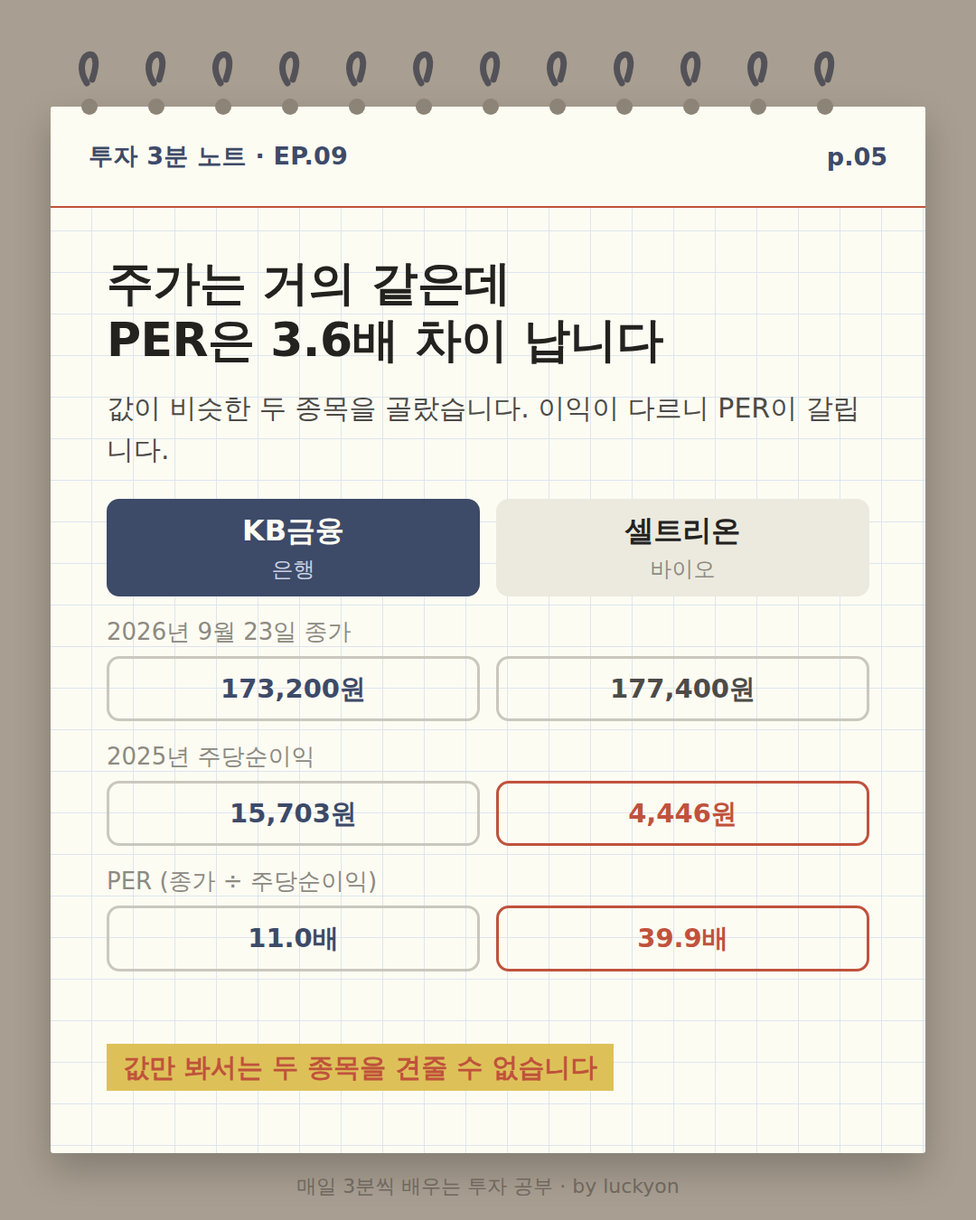
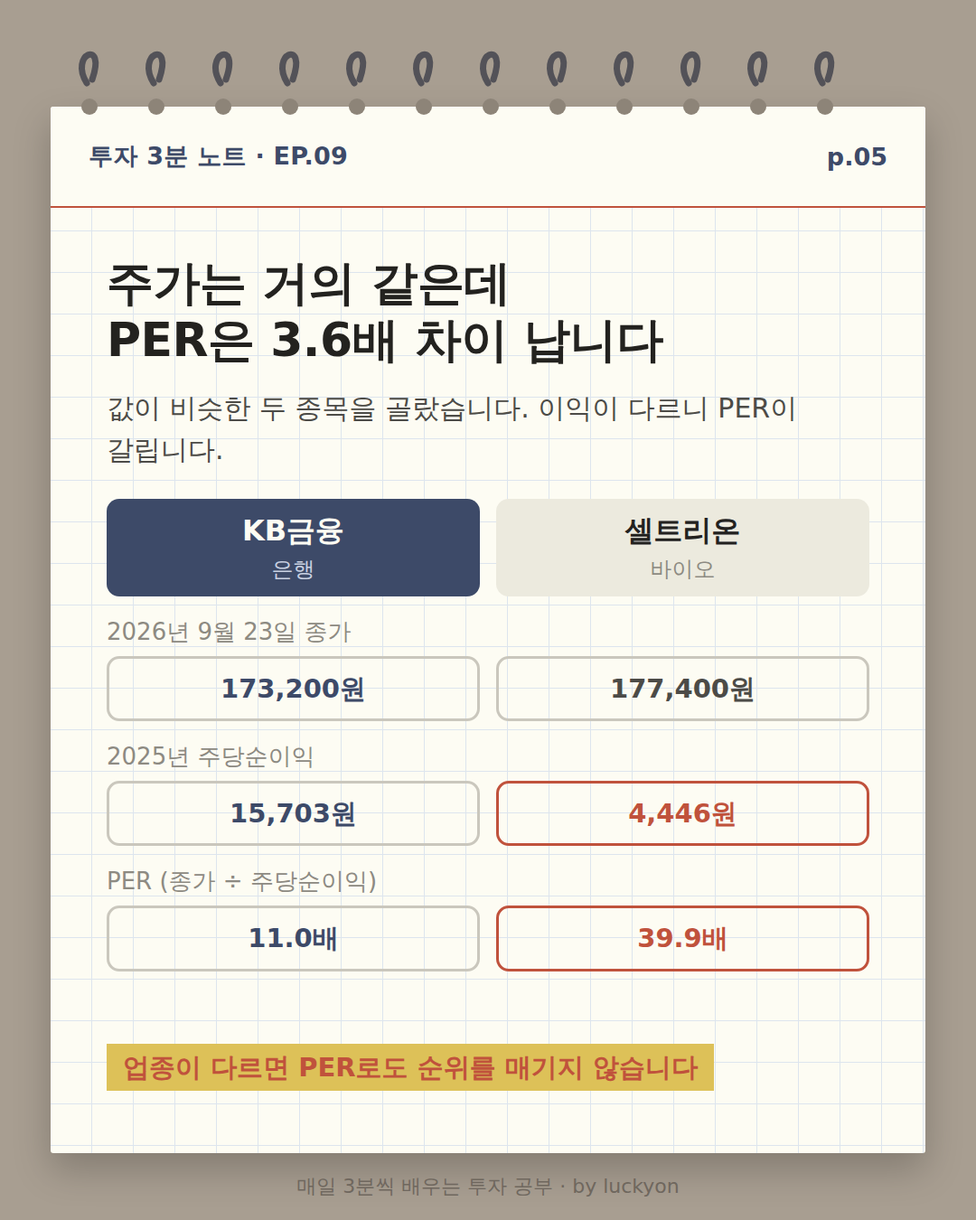
chart-notes: 2026-09-27-ep09 PER (주가수익비율) (ko+en) — p.04 그림 교체·권리금 비유
사용자 검토(2026-10-04): p.04 의 PER 곡선 두 개가 «가격이 올라서 / 이익이 줄어서»를
보여 주지 못해 그림과 설명이 맞지 않았다. 출발 분수 → 두 갈래 → 한 칸만 바뀐 분수 둘
(같은 20배)로 교체. 사용자 제안대로 권리금 비유를 p.02·p.04·p.07·캡션에 넣고(en 은
가게 매매가 = 연 이익의 몇 배), 검증 에이전트 지적(p.05 업종 간 순위, 가치함정 비유의
«이익 대비», 단위 통일, 한국어 어절 줄바꿈)을 반영해 다시 렌더.

Claude-Session: https://claude.ai/code/session_01AaxmUj8NxHtMF1QF9qYNXk

Changed region(s): [[0.1222, 0.84, 0.7333, 0.9022], [0.0917, 0.3422, 0.2139, 0.4044], [0.825, 0.3111, 0.8861, 0.3422]]

diff --git a/cards/chart-notes/2026-09-27-ep09/preview.html b/cards/chart-notes/2026-09-27-ep09/preview.html
@@ -66,35 +66,35 @@
       <figcaption><b>p.01</b> 크림색 모눈 노트 카드. 위 칸에 똑같은 높이의 붉은 캔들 두 개가 나란히 서 있고, 아래 칸에는 감청색 네모 기둥 두 개가 붙어 있는데 왼쪽은 길고 오른쪽은 짧다. 붉은 주석 «같은 값을 내도 딸려 오는 이익이 다릅니다»가 짧은 기둥을 가리킨다. 큰 제목은 «주가가 같아도 한쪽은 비싼 주식입니다», 부제는 «PER — 값을 이익으로 나눠 봅니다».</figcaption>
     </figure>
     <figure>
-      <img src="ko/card2.png" alt="제목 «PER이 몇 배라는 말, 무슨 뜻일까요». 그림에는 높이가 똑같은 직사각형 기둥 두 개가 서 있고, 왼쪽 기둥은 가로선으로 네 조각, 오른쪽 기둥은 열두 조각으로 나뉘어 있다. 오른쪽에 붉은 물음표 세 개. 캡션은 «두 기둥은 높이가 같습니다. 조각 수만 다릅니다»." loading="lazy">
-      <figcaption><b>p.02</b> 제목 «PER이 몇 배라는 말, 무슨 뜻일까요». 그림에는 높이가 똑같은 직사각형 기둥 두 개가 서 있고, 왼쪽 기둥은 가로선으로 네 조각, 오른쪽 기둥은 열두 조각으로 나뉘어 있다. 오른쪽에 붉은 물음표 세 개. 캡션은 «두 기둥은 높이가 같습니다. 조각 수만 다릅니다».</figcaption>
+      <img src="ko/card2.png" alt="제목 «PER이 몇 배라는 말, 무슨 뜻일까요». 본문은 가게 권리금을 월 순익 몇 달 치로 따지듯 PER은 주가를 1년 이익의 몇 배로 따진다고 설명한다. 그림에는 높이가 똑같은 직사각형 기둥 두 개가 서 있고, 왼쪽 기둥은 가로선으로 네 조각, 오른쪽 기둥은 열두 조각으로 나뉘어 있다. 오른쪽에 붉은 물음표 세 개. 캡션은 «기둥은 주가, 조각 하나는 1년 이익 — 조각 수가 PER입니다»." loading="lazy">
+      <figcaption><b>p.02</b> 제목 «PER이 몇 배라는 말, 무슨 뜻일까요». 본문은 가게 권리금을 월 순익 몇 달 치로 따지듯 PER은 주가를 1년 이익의 몇 배로 따진다고 설명한다. 그림에는 높이가 똑같은 직사각형 기둥 두 개가 서 있고, 왼쪽 기둥은 가로선으로 네 조각, 오른쪽 기둥은 열두 조각으로 나뉘어 있다. 오른쪽에 붉은 물음표 세 개. 캡션은 «기둥은 주가, 조각 하나는 1년 이익 — 조각 수가 PER입니다».</figcaption>
     </figure>
     <figure>
       <img src="ko/card3.png" alt="제목 «PER은 나눗셈 하나입니다». 가운데에 분수 꼴로 «주가»를 «주당순이익(1년)»으로 나눈 식과 «= PER». 아래에 주가, 주당순이익, 단위는 배 세 항목의 설명이 붙어 있다. 맨 아래 붉은 테두리 상자에 셀트리온 2026년 9월 23일 종가 기준 계산: 주가 177,400원, 2025년 주당순이익 4,446원, 177,400 ÷ 4,446 = 39.9배." loading="lazy">
       <figcaption><b>p.03</b> 제목 «PER은 나눗셈 하나입니다». 가운데에 분수 꼴로 «주가»를 «주당순이익(1년)»으로 나눈 식과 «= PER». 아래에 주가, 주당순이익, 단위는 배 세 항목의 설명이 붙어 있다. 맨 아래 붉은 테두리 상자에 셀트리온 2026년 9월 23일 종가 기준 계산: 주가 177,400원, 2025년 주당순이익 4,446원, 177,400 ÷ 4,446 = 39.9배.</figcaption>
     </figure>
     <figure>
-      <img src="ko/card4.png" alt="제목 «PER이 올랐다는 말로는 무슨 일이 있었는지 모릅니다». 본문은 PER이 위아래 두 값으로 만들어지니 오르는 길도 둘이고, 아래 두 선이 둘 다 PER이라고 밝힌다. 왼쪽 아래 같은 지점에서 출발한 선 두 개가 오른쪽 위 같은 지점에서 만난다. 감청색 실선은 «가격이 올라서», 붉은 점선은 «이익이 줄어서». 만나는 자리에 붉은 동그라미와 «같은 PER» 표시. 노란 형광펜 줄은 «PER이 움직이면 숫자보다 아래를 먼저 봅니다»." loading="lazy">
-      <figcaption><b>p.04</b> 제목 «PER이 올랐다는 말로는 무슨 일이 있었는지 모릅니다». 본문은 PER이 위아래 두 값으로 만들어지니 오르는 길도 둘이고, 아래 두 선이 둘 다 PER이라고 밝힌다. 왼쪽 아래 같은 지점에서 출발한 선 두 개가 오른쪽 위 같은 지점에서 만난다. 감청색 실선은 «가격이 올라서», 붉은 점선은 «이익이 줄어서». 만나는 자리에 붉은 동그라미와 «같은 PER» 표시. 노란 형광펜 줄은 «PER이 움직이면 숫자보다 아래를 먼저 봅니다».</figcaption>
+      <img src="ko/card4.png" alt="제목 «PER이 올랐다는 말로는 무슨 일이 있었는지 모릅니다». 본문은 10배가 20배로 가는 길이 둘이라며, 가게 권리금이 월 순익 12달 치에서 24달 치가 됐다면 값을 더 쳐줬거나 장사가 반토막 났거나라고 비유한다. 그림 위쪽 감청색 상자 «처음»은 주가 10만 원 나누기 1주당 이익 1만 원 = 10배. 화살표 두 갈래 아래 붉은 상자 두 개 — 왼쪽 «가격이 올라서»는 주가가 20만 원으로 붉게 바뀌어 20배, 오른쪽 «이익이 줄어서»는 1주당 이익이 5천 원으로 붉게 바뀌어 20배. 두 상자를 꺾쇠로 묶어 «둘 다 같은 20배». 아래 붉은 세로줄 문단은 왼쪽은 시장이 값을 더 쳐준 것, 오른쪽은 회사가 버는 돈이 반으로 준 것이라고 적고, 노란 형광펜 줄은 «PER이 오르면 위아래 중 어느 쪽이 움직였는지부터 봅니다»." loading="lazy">
+      <figcaption><b>p.04</b> 제목 «PER이 올랐다는 말로는 무슨 일이 있었는지 모릅니다». 본문은 10배가 20배로 가는 길이 둘이라며, 가게 권리금이 월 순익 12달 치에서 24달 치가 됐다면 값을 더 쳐줬거나 장사가 반토막 났거나라고 비유한다. 그림 위쪽 감청색 상자 «처음»은 주가 10만 원 나누기 1주당 이익 1만 원 = 10배. 화살표 두 갈래 아래 붉은 상자 두 개 — 왼쪽 «가격이 올라서»는 주가가 20만 원으로 붉게 바뀌어 20배, 오른쪽 «이익이 줄어서»는 1주당 이익이 5천 원으로 붉게 바뀌어 20배. 두 상자를 꺾쇠로 묶어 «둘 다 같은 20배». 아래 붉은 세로줄 문단은 왼쪽은 시장이 값을 더 쳐준 것, 오른쪽은 회사가 버는 돈이 반으로 준 것이라고 적고, 노란 형광펜 줄은 «PER이 오르면 위아래 중 어느 쪽이 움직였는지부터 봅니다».</figcaption>
     </figure>
     <figure>
-      <img src="ko/card5.png" alt="제목 «주가는 거의 같은데 PER은 3.6배 차이 납니다». 두 칸 비교표로, 왼쪽은 감청색 KB금융(은행), 오른쪽은 셀트리온(바이오). 2026년 9월 23일 종가는 173,200원과 177,400원, 2025년 주당순이익은 15,703원과 붉게 강조된 4,446원, PER은 11.0배와 붉게 강조된 39.9배. 마무리 형광펜 줄은 «값만 봐서는 두 종목을 견줄 수 없습니다»." loading="lazy">
-      <figcaption><b>p.05</b> 제목 «주가는 거의 같은데 PER은 3.6배 차이 납니다». 두 칸 비교표로, 왼쪽은 감청색 KB금융(은행), 오른쪽은 셀트리온(바이오). 2026년 9월 23일 종가는 173,200원과 177,400원, 2025년 주당순이익은 15,703원과 붉게 강조된 4,446원, PER은 11.0배와 붉게 강조된 39.9배. 마무리 형광펜 줄은 «값만 봐서는 두 종목을 견줄 수 없습니다».</figcaption>
+      <img src="ko/card5.png" alt="제목 «주가는 거의 같은데 PER은 3.6배 차이 납니다». 두 칸 비교표로, 왼쪽은 감청색 KB금융(은행), 오른쪽은 셀트리온(바이오). 2026년 9월 23일 종가는 173,200원과 177,400원, 2025년 주당순이익은 15,703원과 붉게 강조된 4,446원, PER은 11.0배와 붉게 강조된 39.9배. 마무리 형광펜 줄은 «업종이 다르면 PER로도 순위를 매기지 않습니다»." loading="lazy">
+      <figcaption><b>p.05</b> 제목 «주가는 거의 같은데 PER은 3.6배 차이 납니다». 두 칸 비교표로, 왼쪽은 감청색 KB금융(은행), 오른쪽은 셀트리온(바이오). 2026년 9월 23일 종가는 173,200원과 177,400원, 2025년 주당순이익은 15,703원과 붉게 강조된 4,446원, PER은 11.0배와 붉게 강조된 39.9배. 마무리 형광펜 줄은 «업종이 다르면 PER로도 순위를 매기지 않습니다».</figcaption>
     </figure>
     <figure>
-      <img src="ko/card6.png" alt="제목 «이익이 그대로라면 11배는 11년 치 이익입니다». 본문은 업종마다 평소 햇수가 달라 길이는 같은 업종 안에서만 견준다고 적는다. 가로 막대 세 개가 위에서부터 기아·자동차 6.0년, KB금융·은행 11.0년, 붉게 강조된 셀트리온·바이오 39.9년. 셀트리온 막대가 위 두 막대보다 훨씬 길다. 아래 상자에는 «그래서 이 막대는 실적이 새로 나올 때마다 길이가 바뀝니다 — 주가가 그대로여도»." loading="lazy">
-      <figcaption><b>p.06</b> 제목 «이익이 그대로라면 11배는 11년 치 이익입니다». 본문은 업종마다 평소 햇수가 달라 길이는 같은 업종 안에서만 견준다고 적는다. 가로 막대 세 개가 위에서부터 기아·자동차 6.0년, KB금융·은행 11.0년, 붉게 강조된 셀트리온·바이오 39.9년. 셀트리온 막대가 위 두 막대보다 훨씬 길다. 아래 상자에는 «그래서 이 막대는 실적이 새로 나올 때마다 길이가 바뀝니다 — 주가가 그대로여도».</figcaption>
+      <img src="ko/card6.png" alt="제목 «이익이 그대로라면 11배는 11년 치 이익입니다». 본문은 업종마다 평소 햇수가 달라 길이는 같은 업종 안에서만 견준다고 적는다. 가로 막대 세 개가 위에서부터 기아·자동차 6.0년, KB금융·은행 11.0년, 붉게 강조된 셀트리온·바이오 39.9년. 셀트리온 막대가 위 두 막대보다 훨씬 길다. 아래 상자에는 «이 막대는 실적이 새로 나올 때마다 길이가 바뀝니다 — 주가가 그대로여도»." loading="lazy">
+      <figcaption><b>p.06</b> 제목 «이익이 그대로라면 11배는 11년 치 이익입니다». 본문은 업종마다 평소 햇수가 달라 길이는 같은 업종 안에서만 견준다고 적는다. 가로 막대 세 개가 위에서부터 기아·자동차 6.0년, KB금융·은행 11.0년, 붉게 강조된 셀트리온·바이오 39.9년. 셀트리온 막대가 위 두 막대보다 훨씬 길다. 아래 상자에는 «이 막대는 실적이 새로 나올 때마다 길이가 바뀝니다 — 주가가 그대로여도».</figcaption>
     </figure>
     <figure>
-      <img src="ko/card7.png" alt="제목 «초보가 자주 걸리는 세 가지». 번호가 붙은 세 항목 — 1 PER이 낮으니 싼 주식이다(이걸 «가치함정»이라고 부른다), 2 이익이 마이너스라 PER이 낮다(적자면 결과가 음수여서 «몇 배»로 읽을 수 없어 N/A라고 적는다), 3 PER은 회사마다 하나로 정해져 있다(셀트리온은 2025년 확정 실적으로 39.9배, 예상 이익으로는 23.2배). 맨 아래 붉은 테두리 상자의 제목은 «PER은 싸다를 말하지 않습니다»." loading="lazy">
-      <figcaption><b>p.07</b> 제목 «초보가 자주 걸리는 세 가지». 번호가 붙은 세 항목 — 1 PER이 낮으니 싼 주식이다(이걸 «가치함정»이라고 부른다), 2 이익이 마이너스라 PER이 낮다(적자면 결과가 음수여서 «몇 배»로 읽을 수 없어 N/A라고 적는다), 3 PER은 회사마다 하나로 정해져 있다(셀트리온은 2025년 확정 실적으로 39.9배, 예상 이익으로는 23.2배). 맨 아래 붉은 테두리 상자의 제목은 «PER은 싸다를 말하지 않습니다».</figcaption>
+      <img src="ko/card7.png" alt="제목 «초보가 자주 걸리는 세 가지». 번호가 붙은 세 항목 — 1 PER이 낮으니 싼 주식이다(시장이 앞날을 낮게 본 값일 수 있다 — «가치함정». 순익에 비해 권리금이 싼 가게에 이유가 있듯이), 2 이익이 마이너스라 PER이 낮다(적자면 결과가 음수여서 «몇 배»로 읽을 수 없어 N/A라고 적는다), 3 PER은 회사마다 하나로 정해져 있다(셀트리온은 2025년 확정 실적으로 39.9배, 증권사 예상 이익으로는 23.2배). 맨 아래 붉은 테두리 상자의 제목은 «PER은 싸다를 말하지 않습니다»." loading="lazy">
+      <figcaption><b>p.07</b> 제목 «초보가 자주 걸리는 세 가지». 번호가 붙은 세 항목 — 1 PER이 낮으니 싼 주식이다(시장이 앞날을 낮게 본 값일 수 있다 — «가치함정». 순익에 비해 권리금이 싼 가게에 이유가 있듯이), 2 이익이 마이너스라 PER이 낮다(적자면 결과가 음수여서 «몇 배»로 읽을 수 없어 N/A라고 적는다), 3 PER은 회사마다 하나로 정해져 있다(셀트리온은 2025년 확정 실적으로 39.9배, 증권사 예상 이익으로는 23.2배). 맨 아래 붉은 테두리 상자의 제목은 «PER은 싸다를 말하지 않습니다».</figcaption>
     </figure>
     <figure>
       <img src="ko/card8.png" alt="제목 «3줄 정리». 체크 표시가 붙은 세 줄 — PER은 주가를 1주당 1년 이익으로 나눈 값이고 단위는 배, «PER이 올랐다»만으로는 주가가 올랐는지 이익이 줄었는지 모른다, 높다·낮다는 같은 업종끼리 견줘야 알 수 있다. 그 아래 노란 형광펜 두 줄과 «다음 편 ▶ PBR(주가순자산비율)», 맨 아래에 교육 목적이며 투자 권유가 아니라는 고지." loading="lazy">
       <figcaption><b>p.08</b> 제목 «3줄 정리». 체크 표시가 붙은 세 줄 — PER은 주가를 1주당 1년 이익으로 나눈 값이고 단위는 배, «PER이 올랐다»만으로는 주가가 올랐는지 이익이 줄었는지 모른다, 높다·낮다는 같은 업종끼리 견줘야 알 수 있다. 그 아래 노란 형광펜 두 줄과 «다음 편 ▶ PBR(주가순자산비율)», 맨 아래에 교육 목적이며 투자 권유가 아니라는 고지.</figcaption>
     </figure></div>
-    <h3>캡션 (549자)</h3>
-    <div class="cap">주가가 같아도 한쪽은 비싼 주식입니다 — PER 편<br><br>2026년 9월 23일 종가로 KB금융은 173,200원, 셀트리온은 177,400원이었습니다. 값은 2%대밖에 안 다른데 PER은 11.0배와 39.9배로 3.6배 차이가 납니다. 값이 아니라 «그 값에 딸려 오는 이익»이 다르기 때문입니다.<br><br>PER = 주가 ÷ 1주당 1년 이익. 단위는 «배»이고, 이익이 그대로일 때 지금 값을 이익으로 메우는 데 걸리는 햇수로도 읽을 수 있습니다. 다만 그 조건이 빠지면 틀린 말이 됩니다.<br><br>그리고 «PER이 올랐다»는 말만으로는 무슨 일이 있었는지 알 수 없습니다 — 가격이 올랐을 수도, 이익이 줄었을 수도 있으니까요.<br><br>저장해 두고, 가진 종목의 PER을 같은 업종 종목과 나란히 놓아 보세요.<br><br>다음 편은 PBR(주가순자산비율)입니다.<br><br>본 콘텐츠는 교육 목적이며 투자 권유가 아닙니다. 수치는 2026년 9월 23일 종가와 2025년 연간 실적 기준입니다.<br><br>#투자3분노트 #PER #주가수익비율 #주식공부 #주식초보 #기업분석 #투자공부 #경제공부 #재테크 #luckyon</div>
+    <h3>캡션 (658자)</h3>
+    <div class="cap">주가가 같아도 한쪽은 비싼 주식입니다 — PER 편<br><br>2026년 9월 23일 종가로 KB금융은 173,200원, 셀트리온은 177,400원이었습니다. 값은 2%대밖에 안 다른데 PER은 11.0배와 39.9배로 3.6배 차이가 납니다. 값이 아니라 «그 값에 딸려 오는 이익»이 다르기 때문입니다.<br><br>가게 권리금을 «월 순익 몇 달 치»로 따지듯, PER은 주가를 «1년 이익의 몇 배»로 따집니다. PER = 주가 ÷ 1주당 1년 이익이고, 이익이 그대로일 때 지금 값을 이익으로 메우는 데 걸리는 햇수로도 읽을 수 있습니다. 다만 그 조건이 빠지면 틀린 말이 됩니다.<br><br>그리고 «PER이 올랐다»는 말만으로는 무슨 일이 있었는지 알 수 없습니다 — 가격이 올랐을 수도, 이익이 줄었을 수도 있으니까요. 권리금이 월 순익 12달 치에서 24달 치가 됐다고 해서 그 가게가 더 좋아졌다고 할 수 없는 것과 같습니다.<br><br>저장해 두고, 가진 종목의 PER을 같은 업종 종목과 나란히 놓아 보세요.<br><br>다음 편은 PBR(주가순자산비율)입니다.<br><br>본 콘텐츠는 교육 목적이며 투자 권유가 아닙니다. 수치는 2026년 9월 23일 종가와 2025년 연간 실적 기준입니다.<br><br>#투자3분노트 #PER #주가수익비율 #주식공부 #주식초보 #기업분석 #투자공부 #경제공부 #재테크 #luckyon</div>
 
     <h2>🇺🇸 English — 8장</h2>
     <div class="cards">
@@ -103,35 +103,35 @@
       <figcaption><b>p.01</b> Cream grid-paper note card. In the upper panel two identical green candlesticks stand side by side at the same height; in the lower panel two navy blocks sit beneath them, the left one tall and the right one short. A red annotation reading "Same price to buy, different profit behind it" points at the short block. The headline is "Same price tag, not the same price" with the subtitle "P/E - what you pay per dollar of profit".</figcaption>
     </figure>
     <figure>
-      <img src="en/card2.png" alt="Title: "Every P/E ends in an x - x of what?". The drawing shows two rectangular columns of exactly the same height; the left column is divided by horizontal lines into four slices, the right into twelve thinner slices. Three red question marks sit to the right. The caption reads "Same height, a different number of slices"." loading="lazy">
-      <figcaption><b>p.02</b> Title: "Every P/E ends in an x - x of what?". The drawing shows two rectangular columns of exactly the same height; the left column is divided by horizontal lines into four slices, the right into twelve thinner slices. Three red question marks sit to the right. The caption reads "Same height, a different number of slices".</figcaption>
+      <img src="en/card2.png" alt="Title: "Every P/E ends in an x - x of what?". The body says a small shop is often priced as a multiple of its yearly profit, and the P/E prices one share the same way. The drawing shows two rectangular columns of exactly the same height; the left column is divided by horizontal lines into four slices, the right into twelve thinner slices. Three red question marks sit to the right. The caption reads "Column = price, slice = a year of profit. Count the slices"." loading="lazy">
+      <figcaption><b>p.02</b> Title: "Every P/E ends in an x - x of what?". The body says a small shop is often priced as a multiple of its yearly profit, and the P/E prices one share the same way. The drawing shows two rectangular columns of exactly the same height; the left column is divided by horizontal lines into four slices, the right into twelve thinner slices. Three red question marks sit to the right. The caption reads "Column = price, slice = a year of profit. Count the slices".</figcaption>
     </figure>
     <figure>
       <img src="en/card3.png" alt="Title: "The P/E is one division". In the middle, share price over earnings per share as a fraction, with "= P/E" beside it. Below, three labelled notes on share price, EPS, and reading the result as x. A red-bordered box at the bottom works through Broadcom at the close on Sept 25, 2026: share price $352.81, earnings per share over the last 12 months $7.74, and 352.81 divided by 7.74 equals 45.6." loading="lazy">
       <figcaption><b>p.03</b> Title: "The P/E is one division". In the middle, share price over earnings per share as a fraction, with "= P/E" beside it. Below, three labelled notes on share price, EPS, and reading the result as x. A red-bordered box at the bottom works through Broadcom at the close on Sept 25, 2026: share price $352.81, earnings per share over the last 12 months $7.74, and 352.81 divided by 7.74 equals 45.6.</figcaption>
     </figure>
     <figure>
-      <img src="en/card4.png" alt="Title: "The P/E went up doesn’t say what happened". The body notes that two numbers make the ratio and that both lines below are the P/E itself. Two lines leave the same point at the lower left and meet at the same point at the upper right. The navy solid line is labelled "The price went up" and the red dashed line "Earnings fell". A red circle marks where they meet, labelled "Same P/E". A yellow highlighted line reads "Check the bottom half before the number"." loading="lazy">
-      <figcaption><b>p.04</b> Title: "The P/E went up doesn’t say what happened". The body notes that two numbers make the ratio and that both lines below are the P/E itself. Two lines leave the same point at the lower left and meet at the same point at the upper right. The navy solid line is labelled "The price went up" and the red dashed line "Earnings fell". A red circle marks where they meet, labelled "Same P/E". A yellow highlighted line reads "Check the bottom half before the number".</figcaption>
+      <img src="en/card4.png" alt="Title: "The P/E went up doesn't say what happened". The body gives two ways from 10 to 20, like a cafe once priced at 2 years of profit now priced at 4: buyers paid more, or the profit halved. At the top a navy box labelled Before shows price $100 over EPS $10 = 10. Two arrows lead to two red boxes: on the left, The price went up, with the price changed to $200 in red, = 20; on the right, Earnings fell, with EPS changed to $5 in red, = 20. A bracket joins them, labelled Both read 20. A red-ruled note says that on the left buyers paid more and on the right the company earned half as much; a yellow highlighted line reads "When the P/E moves, check the top and the bottom"." loading="lazy">
+      <figcaption><b>p.04</b> Title: "The P/E went up doesn't say what happened". The body gives two ways from 10 to 20, like a cafe once priced at 2 years of profit now priced at 4: buyers paid more, or the profit halved. At the top a navy box labelled Before shows price $100 over EPS $10 = 10. Two arrows lead to two red boxes: on the left, The price went up, with the price changed to $200 in red, = 20; on the right, Earnings fell, with EPS changed to $5 in red, = 20. A bracket joins them, labelled Both read 20. A red-ruled note says that on the left buyers paid more and on the right the company earned half as much; a yellow highlighted line reads "When the P/E moves, check the top and the bottom".</figcaption>
     </figure>
     <figure>
-      <img src="en/card5.png" alt="Title: "Nearly the same price, three times the P/E". A two-column table with navy JPMorgan, a bank, on the left and Broadcom, semiconductors, on the right. The close on Sept 25, 2026 is $343.06 against $352.81; earnings per share over the last 12 months $23.33 against $7.74 highlighted in red; and P/E 14.7 against 45.6 highlighted in red. The closing line reads "Price alone cannot rank two stocks"." loading="lazy">
-      <figcaption><b>p.05</b> Title: "Nearly the same price, three times the P/E". A two-column table with navy JPMorgan, a bank, on the left and Broadcom, semiconductors, on the right. The close on Sept 25, 2026 is $343.06 against $352.81; earnings per share over the last 12 months $23.33 against $7.74 highlighted in red; and P/E 14.7 against 45.6 highlighted in red. The closing line reads "Price alone cannot rank two stocks".</figcaption>
+      <img src="en/card5.png" alt="Title: "Nearly the same price, three times the P/E". A two-column table with navy JPMorgan, a bank, on the left and Broadcom, semiconductors, on the right. The close on Sept 25, 2026 is $343.06 against $352.81; earnings per share over the last 12 months $23.33 against $7.74 highlighted in red; and P/E 14.7 against 45.6 highlighted in red. The closing line reads "Different industries: no ranking by P/E either"." loading="lazy">
+      <figcaption><b>p.05</b> Title: "Nearly the same price, three times the P/E". A two-column table with navy JPMorgan, a bank, on the left and Broadcom, semiconductors, on the right. The close on Sept 25, 2026 is $343.06 against $352.81; earnings per share over the last 12 months $23.33 against $7.74 highlighted in red; and P/E 14.7 against 45.6 highlighted in red. The closing line reads "Different industries: no ranking by P/E either".</figcaption>
     </figure>
     <figure>
-      <img src="en/card6.png" alt="Title: "If earnings stay flat, 14.7 means 14.7 years". The body notes that the usual length differs by industry, so lengths only compare inside one industry. Three horizontal bars, from the top: Verizon, telecom, 12.3 years; JPMorgan, bank, 14.7 years; and Broadcom, semiconductors, 45.6 years highlighted in red. A box below reads "So each bar changes length on results day, even when the price has not moved"." loading="lazy">
-      <figcaption><b>p.06</b> Title: "If earnings stay flat, 14.7 means 14.7 years". The body notes that the usual length differs by industry, so lengths only compare inside one industry. Three horizontal bars, from the top: Verizon, telecom, 12.3 years; JPMorgan, bank, 14.7 years; and Broadcom, semiconductors, 45.6 years highlighted in red. A box below reads "So each bar changes length on results day, even when the price has not moved".</figcaption>
+      <img src="en/card6.png" alt="Title: "If earnings stay flat, 14.7 means 14.7 years". The body notes that the usual length differs by industry, so lengths only compare inside one industry. Three horizontal bars, from the top: Verizon, telecom, 12.3 years; JPMorgan, bank, 14.7 years; and Broadcom, semiconductors, 45.6 years highlighted in red. A box below reads "Each bar changes length on results day, even when the price has not moved"." loading="lazy">
+      <figcaption><b>p.06</b> Title: "If earnings stay flat, 14.7 means 14.7 years". The body notes that the usual length differs by industry, so lengths only compare inside one industry. Three horizontal bars, from the top: Verizon, telecom, 12.3 years; JPMorgan, bank, 14.7 years; and Broadcom, semiconductors, 45.6 years highlighted in red. A box below reads "Each bar changes length on results day, even when the price has not moved".</figcaption>
     </figure>
     <figure>
-      <img src="en/card7.png" alt="Title: "Three things beginners get wrong". Three numbered items - a low P/E means it is cheap (this is called a value trap); earnings are negative so the P/E is low (a loss makes the division negative, so it is written N/A); a company has one P/E (Broadcom is 45.6 on the 12 months already reported and 18.2 on the estimate for the 12 months ahead). A red-bordered box at the bottom is headed "A P/E does not say cheap"." loading="lazy">
-      <figcaption><b>p.07</b> Title: "Three things beginners get wrong". Three numbered items - a low P/E means it is cheap (this is called a value trap); earnings are negative so the P/E is low (a loss makes the division negative, so it is written N/A); a company has one P/E (Broadcom is 45.6 on the 12 months already reported and 18.2 on the estimate for the 12 months ahead). A red-bordered box at the bottom is headed "A P/E does not say cheap".</figcaption>
+      <img src="en/card7.png" alt="Title: "Three things beginners get wrong". Three numbered items - a low P/E means it is cheap (the market may expect little, like a shop cheap for its profits for a reason; that is a value trap); earnings are negative so the P/E is low (a loss makes the division negative, so it is written N/A); a company has one P/E (Broadcom is 45.6 on the last 12 months reported and 18.2 on analysts' forecasts). A red-bordered box at the bottom is headed "A P/E does not say cheap"." loading="lazy">
+      <figcaption><b>p.07</b> Title: "Three things beginners get wrong". Three numbered items - a low P/E means it is cheap (the market may expect little, like a shop cheap for its profits for a reason; that is a value trap); earnings are negative so the P/E is low (a loss makes the division negative, so it is written N/A); a company has one P/E (Broadcom is 45.6 on the last 12 months reported and 18.2 on analysts' forecasts). A red-bordered box at the bottom is headed "A P/E does not say cheap".</figcaption>
     </figure>
     <figure>
       <img src="en/card8.png" alt="Title: "Three lines". Three check-marked lines: P/E equals share price divided by a year of earnings per share; a P/E that went up says nothing on its own, price up or earnings down; high or low only means something inside one industry. Below are two yellow highlighted lines, then "Next up: The P/B ratio", and a footer noting the content is educational only and not investment advice." loading="lazy">
       <figcaption><b>p.08</b> Title: "Three lines". Three check-marked lines: P/E equals share price divided by a year of earnings per share; a P/E that went up says nothing on its own, price up or earnings down; high or low only means something inside one industry. Below are two yellow highlighted lines, then "Next up: The P/B ratio", and a footer noting the content is educational only and not investment advice.</figcaption>
     </figure></div>
-    <h3>캡션 (1002자)</h3>
-    <div class="cap">Same price tag, not the same price - the P/E ratio<br><br>At the close on Sept 25, 2026 JPMorgan was $343.06 and Broadcom $352.81. The prices differ by under 3%, but their P/E ratios are 14.7 and 45.6 - three times apart. What differs is not the price but the profit that comes with it.<br><br>P/E = share price divided by a year of earnings per share. You can read it as the years of profit it would take to cover the price, but only if earnings stay flat. Drop that condition and the sentence stops being true.<br><br>And a rising P/E on its own tells you nothing: the price may have gone up, or the earnings may have fallen.<br><br>Save this, then put a stock you own next to its industry peers.<br><br>Next up: the P/B ratio.<br><br>Educational content only. Not investment advice. Figures are the Sept 25, 2026 close and the twelve months of earnings reported up to that date.<br><br>#3MinInvestingNotes #PERatio #PriceToEarnings #StockMarketBasics #InvestingForBeginners #Valuation #StockAnalysis #FinanceEducation #LearnToInvest #luckyon</div>
+    <h3>캡션 (1106자)</h3>
+    <div class="cap">Same price tag, not the same price - the P/E ratio<br><br>At the close on Sept 25, 2026 JPMorgan was $343.06 and Broadcom $352.81. The prices differ by under 3%, but their P/E ratios are 14.7 and 45.6 - three times apart. What differs is not the price but the profit that comes with it.<br><br>A small shop is often priced as a multiple of its yearly profit; the P/E prices one share the same way. P/E = share price divided by a year of earnings per share. You can read it as the years of profit it would take to cover the price, but only if earnings stay flat. Drop that condition and the sentence stops being true.<br><br>And a rising P/E on its own tells you nothing: the price may have gone up, or the earnings may have fallen.<br><br>Save this, then put a stock you own next to its industry peers.<br><br>Next up: the P/B ratio.<br><br>Educational content only. Not investment advice. Figures are the Sept 25, 2026 close and the twelve months of earnings reported up to that date.<br><br>#3MinInvestingNotes #PERatio #PriceToEarnings #StockMarketBasics #InvestingForBeginners #Valuation #StockAnalysis #FinanceEducation #LearnToInvest #luckyon</div>
 
 
 <div class="act">

diff --git a/content/chart-notes/_knowledge/PER.md b/content/chart-notes/_knowledge/PER.md
@@ -107,3 +107,17 @@
     **+1일**이 맞음을 확인(→ 마지막 봉 = 2026-09-23 수요일). 2026-09-24·25 가 비어 있는 것은 추석 연휴.
   - **업종 평균 PER 수치를 카드에서 뺐다.** 검색으로는 「은행 4.60배 · 제약 104.95배」 같은 숫자가
     나오지만 집계 기관·시점이 불명이라 원본 대조가 불가능하다. 대신 **실제 두 종목**으로 바꿨다.
+
+- **2026-10-04 (EP.09, 사용자 검토 — 발행 전)**
+  - **p.04 그림이 본문과 전혀 맞지 않았다.** 본문은 «가격이 올라서 / 이익이 줄어서» 두 길을 말하는데,
+    그림은 같은 점에서 출발해 같은 점에서 만나는 «PER 선» 두 개였다 — 두 선이 다른 건 휜 모양뿐이라
+    원인(분자·분모)이 화면 어디에도 없었다. **결과(PER)만 그리면 원인은 안 보인다.**
+    → 새 카드 타입 `paths` 로 교체: 출발 분수 하나 → 두 갈래 → «한 칸만 붉게 바뀐» 분수 두 개 → «둘 다 같은 20배».
+    **나눗셈 지표(PBR·EPS·배당수익률·ROE)에서 «값이 왜 움직였나»를 보여줄 때 이 타입을 쓴다.**
+  - **권리금 비유(사용자 제안).** 가게 권리금을 «월 순익 몇 달 치»로 따지듯(영업권리금 = 월 순수익 × 대략
+    6~12개월, 수익환원 방식) PER은 주가를 «1년 이익의 몇 배»로 따진다. 초보가 이미 아는 «값 ÷ 버는 돈»이라
+    정의보다 먼저 들어간다. 특히 잘 맞는 자리 두 곳: ① «PER이 올랐다»의 두 갈래(권리금이 올랐는데 값을 더
+    부른 건지 장사가 줄어든 건지) ② 가치함정(권리금 싼 가게엔 이유가 있다).
+    **비유의 한계** — 권리금은 «달», PER은 «년»이라 기간 숫자를 옮기지 않는다. 권리금 순익엔 주인 본인의
+    노동이 섞이고, 주주는 이익을 직접 받지 않는다. 그래서 카드에서는 «값을 버는 돈의 몇 배로 따진다»는
+    구조만 빌린다. 영어판은 권리금이 없으므로 «소규모 가게 매매가 = 연 이익의 몇 배»(카페 대략 2~3배)로 바꿨다.
